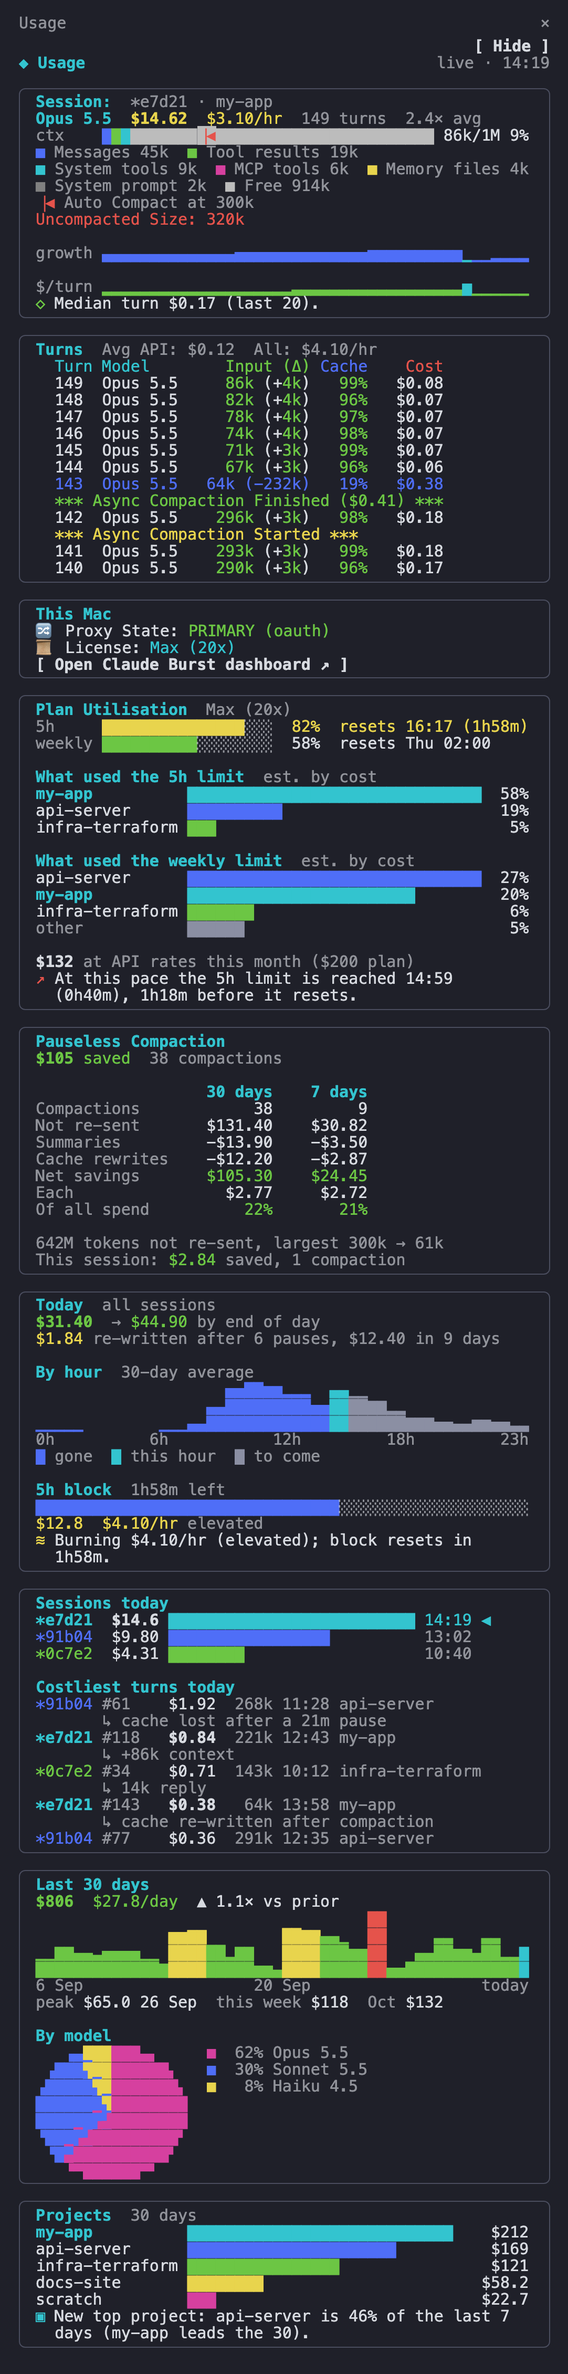
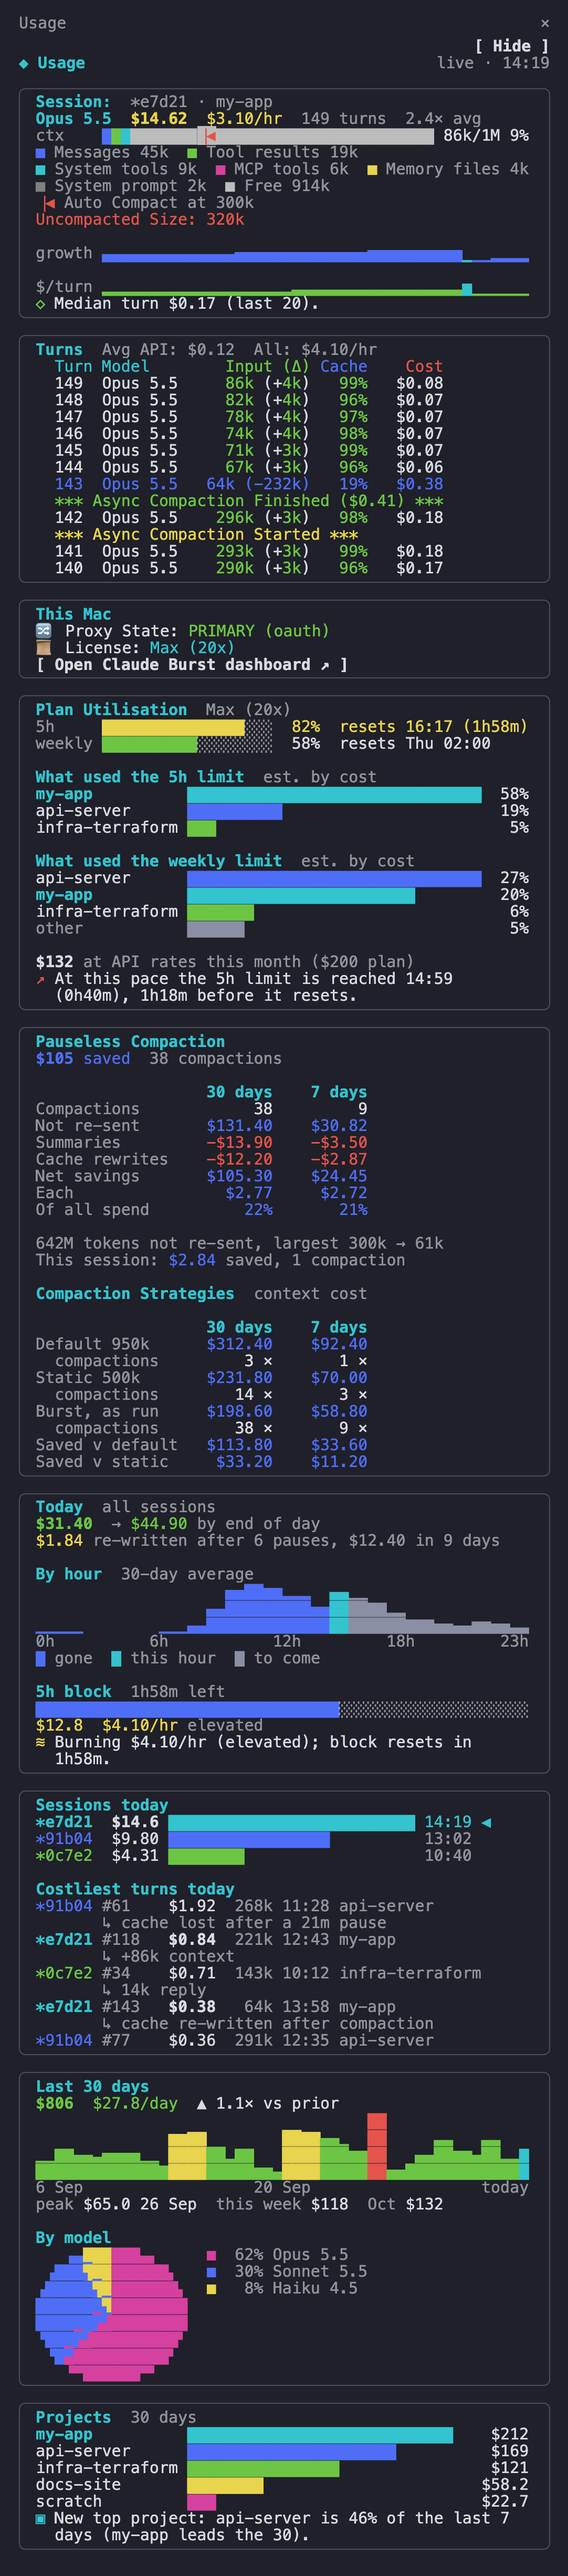
Sidebar: Compaction Strategies sets Claude Code alone, a static limit and Burst as it ran side by side, from Burst's replay, with what Burst saved against each; in the savings tables money gained is blue and money lost red (usage-panel mod 1.15.0)
Claude-Session: https://claude.ai/code/session_01WeFFCejvYqYZRxBmQn1kGn

Changed region(s): [[0.0305, 0.0, 0.976, 0.9978], [0.8235, 0.9354, 0.9455, 0.9978], [0.7625, 0.4054, 0.793, 0.4365]]

diff --git a/mods/usage-panel/hooks/register.js b/mods/usage-panel/hooks/register.js
@@ -481,6 +481,22 @@ async function readExtras($) {
       daily: (Array.isArray(stats.daily) ? stats.daily : []).filter((x) => x && typeof x.date === 'string').map((x) => ({ d: x.date, net: x.net_usd || 0, n: x.compactions || 0, saved: x.saved_usd || 0, summary: x.summary_usd || 0, rewrite: x.rewrite_usd || 0 })),
     }
   }
+  // The same requests replayed three ways: Claude Code alone (compacts at
+  // default_at), a fixed Compact at (fixed_at), and Burst as it ran. Context
+  // cost only: cache reads plus what the compactions cost.
+  const strat = state && state.context && state.context.compaction_strategies
+  const way = (x) => ({ usd: (x && x.usd) || 0, n: (x && x.compactions) || 0 })
+  if (strat && strat.default && strat.fixed && strat.actual && strat.requests > 0) {
+    next.strat = {
+      days: (state.context.window_days > 0 && state.context.window_days) || 7,
+      defaultAt: strat.default_at || 0, fixedAt: strat.fixed_at || 0,
+      def: way(strat.default), fixed: way(strat.fixed), actual: way(strat.actual),
+      daily: (Array.isArray(strat.daily) ? strat.daily : []).filter((x) => x && typeof x.date === 'string').map((x) => {
+        const d = way(x.default), f = way(x.fixed), a = way(x.actual)
+        return { d: x.date, defUsd: d.usd, defN: d.n, fixedUsd: f.usd, fixedN: f.n, actualUsd: a.usd, actualN: a.n }
+      }),
+    }
+  }
   // What the secondary's requests would have cost at the price of the model
   // Claude Code asked for, against what the secondary charged.
   const over = state && state.context && state.context.overflow_stats
@@ -533,7 +549,7 @@ async function readExtras($) {
   const week = await get('/api/usage?range=7d&limit=1&provider=anthropic')
   const found = byRepo(week)
   if (found) next.week = { ...found, repos: ((week.options && week.options.repos) || []).filter((x) => typeof x === 'string') }
-  extra = next.saved || next.secondary || next.warn || next.comp || next.auto || next.over || next.by || next.week ? next : null
+  extra = next.saved || next.secondary || next.warn || next.comp || next.strat || next.auto || next.over || next.by || next.week ? next : null
   return JSON.stringify(extra) !== before
 }
 
@@ -672,9 +688,13 @@ export function panel(Box, Text, d, width, now, feedError, layout, extras = [], 
       return body.length > 0 ? [...body, ...notes('plan')] : []
     },
     savings: () => {
-      const saved = savingsSection(Box, T, IW, extra)
-      const over = overflowSection(Box, T, IW, extra)
-      return saved.length > 0 && over.length > 0 ? [...saved, T(' '), ...over] : [...saved, ...over]
+      const out = []
+      for (const part of [savingsSection(Box, T, IW, extra), strategiesSection(Box, T, IW, extra), overflowSection(Box, T, IW, extra)]) {
+        if (part.length === 0) continue
+        if (out.length > 0) out.push(T(' '))
+        out.push(...part)
+      }
+      return out
     },
     today: () => [...todaySection(Box, T, d, IW, now), ...notes('today')],
     sessions: () => topSection(Box, T, d, IW),
@@ -1098,20 +1118,19 @@ function savingsSection(Box, T, W, extra) {
   if (!c || !(c.n > 0)) return []
   const out = [heading(T, 'Pauseless Compaction')]
   out.push(T([
-    T(money(Math.abs(c.net)), { bold: true, color: c.net >= 0 ? 'green' : 'red' }),
-    T(c.net >= 0 ? ' saved' : ' lost', { color: c.net >= 0 ? 'green' : 'red' }),
+    T(money(Math.abs(c.net)), { bold: true, color: c.net >= 0 ? GAIN : 'red' }),
+    T(c.net >= 0 ? ' saved' : ' lost', { color: c.net >= 0 ? GAIN : 'red' }),
     T('  ' + c.n + (c.n === 1 ? ' compaction' : ' compactions'), { dimColor: true }),
   ], { wrap: 'truncate-end' }))
   const w = lastWeek(c.daily, c.days)
-  const tone = (v) => (v >= 0 ? 'green' : 'red')
   out.push(...figures(Box, T, c.days, !!w, [
     ['Compactions', String(c.n), w && String(w.n)],
     ['Not re-sent', money(c.saved, 2), w && money(w.saved, 2)],
     ['Summaries', money(-c.summary, 2), w && money(-w.summary, 2)],
     ['Cache rewrites', money(-c.rewrite, 2), w && money(-w.rewrite, 2)],
-    ['Net savings', money(c.net, 2), w && money(w.net, 2), tone(c.net), w && tone(w.net)],
+    ['Net savings', money(c.net, 2), w && money(w.net, 2)],
     ['Each', c.n > 0 ? money(c.net / c.n, 2) : '', w && w.n > 0 ? money(w.net / w.n, 2) : ''],
-    ['Of all spend', ofSpend(c.net, extra.spent), w ? ofSpend(w.net, extra.spent7) : '', tone(c.net), w && tone(w.net)],
+    ['Of all spend', ofSpend(c.net, extra.spent), w ? ofSpend(w.net, extra.spent7) : ''],
   ]))
   out.push(T(' '))
   if (c.tokens > 0) {
@@ -1126,7 +1145,7 @@ function savingsSection(Box, T, W, extra) {
     const one = mine.n === 1
     out.push(T([
       T('This session: ', { dimColor: true }),
-      T(money(Math.abs(mine.net), 2), { color: mine.net >= 0 ? 'green' : 'yellow' }),
+      T(money(Math.abs(mine.net), 2), { color: mine.net >= 0 ? GAIN : 'yellow' }),
       T((mine.net >= 0 ? ' saved' : ' lost so far') + ', ' + mine.n + (one ? ' compaction' : ' compactions'), { dimColor: true }),
     ], { wrap: 'wrap' }))
   }
@@ -1153,18 +1172,49 @@ function ofSpend(net, spent) {
   return (Math.abs(p) < 10 ? p.toFixed(1) : Math.round(p)) + '%'
 }
 
+// The colour of money gained in the savings tables; money lost is red.
+const GAIN = 'blue'
+
 // A card's figures as a table: a column for Burst's window and, where that
 // is longer than a week, one for the last 7 days. Each row is [label,
-// window, week, colour of the window's figure, colour of the week's].
+// window, week]. Money and shares are coloured by their sign: red below
+// nothing, blue otherwise. A plain count has no colour.
 function figures(Box, T, days, two, rows) {
   const cw = 10
   const lw = 15
-  const cell = (v, o) => T(lpad(v == null ? '' : v, cw), o)
+  const tone = (v) => (typeof v !== 'string' || !/[$%]/.test(v) ? undefined : v.startsWith('-') ? 'red' : GAIN)
+  const cell = (v, o) => T(lpad(v == null ? '' : v, cw), o || { color: tone(v) })
   const out = [Box({ flexDirection: 'row', marginTop: 1, children: [T(pad('', lw)), cell(days + ' days', { bold: true, color: ACCENT }), two ? cell(WEEK + ' days', { bold: true, color: ACCENT }) : ''] })]
-  for (const [label, a, b, ca, cb] of rows) {
+  for (const [label, a, b] of rows) {
     if (!a && !b) continue
-    out.push(Box({ flexDirection: 'row', children: [T(pad(label, lw), { dimColor: true }), cell(a, { color: ca }), two ? cell(b, { color: cb }) : ''] }))
+    out.push(Box({ flexDirection: 'row', children: [T(pad(label, lw), { dimColor: true }), cell(a), two ? cell(b) : ''] }))
   }
+  return out
+}
+
+// ---- compaction strategies: three ways to compact, on the same requests
+
+// Burst replays the window's requests as Claude Code alone would have sent
+// them (it compacts near the window's end), as a fixed Compact at would
+// have, and counts what it really sent. Context cost only: output and new
+// input are the same three ways.
+function strategiesSection(Box, T, W, extra) {
+  const s = extra && extra.strat
+  if (!s || !(s.def.usd > 0)) return []
+  const out = [heading(T, 'Compaction Strategies', 'context cost')]
+  const w = lastWeek(s.daily, s.days)
+  const at = (label, n) => (n > 0 ? label + ' ' + k(n) : label)
+  const count = (n) => String(n) + ' ×'
+  out.push(...figures(Box, T, s.days, !!w, [
+    [at('Default', s.defaultAt), money(s.def.usd, 2), w && money(w.defUsd, 2)],
+    ['  compactions', count(s.def.n), w && count(w.defN)],
+    [at('Static', s.fixedAt), money(s.fixed.usd, 2), w && money(w.fixedUsd, 2)],
+    ['  compactions', count(s.fixed.n), w && count(w.fixedN)],
+    ['Burst, as run', money(s.actual.usd, 2), w && money(w.actualUsd, 2)],
+    ['  compactions', count(s.actual.n), w && count(w.actualN)],
+    ['Saved v default', money(s.def.usd - s.actual.usd, 2), w && money(w.defUsd - w.actualUsd, 2)],
+    ['Saved v static', money(s.fixed.usd - s.actual.usd, 2), w && money(w.fixedUsd - w.actualUsd, 2)],
+  ]))
   return out
 }
 
@@ -1179,18 +1229,17 @@ function overflowSection(Box, T, W, extra) {
   const good = o.saved >= 0
   const out = [heading(T, 'Overflow to Secondary')]
   out.push(T([
-    T(money(Math.abs(o.saved)), { bold: true, color: good ? 'green' : 'red' }),
-    T(good ? ' saved' : ' lost', { color: good ? 'green' : 'red' }),
+    T(money(Math.abs(o.saved)), { bold: true, color: good ? GAIN : 'red' }),
+    T(good ? ' saved' : ' lost', { color: good ? GAIN : 'red' }),
     T('  ' + o.n + (o.n === 1 ? ' request' : ' requests'), { dimColor: true }),
   ], { wrap: 'truncate-end' }))
   const w = lastWeek(o.daily, o.days)
-  const tone = (v) => (v >= 0 ? 'green' : 'red')
   out.push(...figures(Box, T, o.days, !!w, [
     ['Requests', String(o.n), w && String(w.n)],
     ['Anthropic price', money(o.list, 2), w && money(w.list, 2)],
     ['Secondary paid', money(-o.paid, 2), w && money(-w.paid, 2)],
-    ['Net savings', money(o.saved, 2), w && money(w.net, 2), tone(o.saved), w && tone(w.net)],
-    ['Of all spend', ofSpend(o.saved, extra.spent), w ? ofSpend(w.net, extra.spent7) : '', tone(o.saved), w && tone(w.net)],
+    ['Net savings', money(o.saved, 2), w && money(w.net, 2)],
+    ['Of all spend', ofSpend(o.saved, extra.spent), w ? ofSpend(w.net, extra.spent7) : ''],
   ]))
   if (o.priced < o.n) out.push(T((o.n - o.priced) + (o.n - o.priced === 1 ? ' request has' : ' requests have') + ' no price and ' + (o.n - o.priced === 1 ? 'is' : 'are') + ' left out', { dimColor: true, wrap: 'truncate-end' }))
   return out

diff --git a/mods/usage-panel/tests/usage-panel.test.ts b/mods/usage-panel/tests/usage-panel.test.ts
@@ -588,7 +588,7 @@ test('Pauseless Compaction shows what Burst\'s compaction saved, what it cost, a
   const drawn = JSON.stringify(await ui.drawn())
   expect(await ui.find({ type: 'Text', text: 'Pauseless Compaction' })).toBeDefined()
   expect(drawn).not.toContain('last 7 days')
-  expect(drawn).toContain('{"bold":true,"color":"green"},"children":["$276"]')
+  expect(drawn).toContain('{"bold":true,"color":"blue"},"children":["$276"]')
   expect(drawn).toContain('"  45 compactions"')
   expect(drawn).toContain('"   $298.47"')
   expect(drawn).toContain('"   -$12.59"')
@@ -628,7 +628,7 @@ test('Overflow to Secondary shows what the secondary saved against the price of 
   const ui = await $.ui.mount(PANE)
   const drawn = JSON.stringify(await ui.drawn())
   const card = drawn.slice(drawn.indexOf('"Overflow to Secondary"'), drawn.indexOf('"Today"'))
-  expect(card).toContain('{"bold":true,"color":"green"},"children":["$42.0"]')
+  expect(card).toContain('{"bold":true,"color":"blue"},"children":["$42.0"]')
   expect(card).toContain('"  12 requests"')
   expect(card).toContain('"    $48.20"')
   expect(card).toContain('"    -$6.15"')
@@ -703,6 +703,33 @@ test('over a 30-day window the savings tables have a column for the 30 days and 
   expect(over).toContain('"    $15.00"')
   expect(over).toContain('"    $10.50"')
   expect(over).toContain('"        21"')
+})
+
+test('Compaction Strategies sets Claude Code alone, a static limit and Burst as it ran side by side, and what Burst saved against each', async ($, on) => {
+  stubs(on, [doc({ burst: BURST })])
+  const dates = ['2026-09-26', '2026-09-27', '2026-09-28', '2026-09-29', '2026-09-30', '2026-10-01', '2026-10-02', '2026-10-03', '2026-10-04', '2026-10-05']
+  const way = (usd: number, compactions: number) => ({ usd, compactions })
+  // A day: $10 alone, $7 with a static limit, $8 as Burst ran (dearer than static).
+  const daily = dates.map((date) => ({ date, requests: 50, default: way(10, 0), fixed: way(7, 1), actual: way(8, 2) }))
+  const compaction_strategies = { fixed_at: 500_000, default_at: 950_000, requests: 500, default: way(927.25, 5), fixed: way(672.27, 34), actual: way(584.52, 79), daily, repos: [] }
+  dashboard(on, { state: { context: { window_days: 30, compaction_strategies } } })
+  await start($)
+  const ui = await $.ui.mount(PANE)
+  const drawn = JSON.stringify(await ui.drawn())
+  const card = drawn.slice(drawn.indexOf('"Compaction Strategies"'), drawn.indexOf('"Today"'))
+  expect(card).toContain('"  context cost"')
+  expect(card).toContain('"Default 950k   "')
+  expect(card).toContain('"Static 500k    "')
+  expect(card).toContain('"   $927.25"')
+  expect(card).toContain('"      79 ×"')
+  // 927.25 - 584.52 and 672.27 - 584.52 over the window: money gained is blue.
+  expect((await ui.find({ type: 'Text', text: '   $342.73' })).props.color).toBe('blue')
+  expect((await ui.find({ type: 'Text', text: '    $87.75' })).props.color).toBe('blue')
+  // The last seven days: $70 alone, $49 static, $56 as run. Burst lost $7 against static: red.
+  expect((await ui.find({ type: 'Text', text: '    $14.00' })).props.color).toBe('blue')
+  expect((await ui.find({ type: 'Text', text: '    -$7.00' })).props.color).toBe('red')
+  // A count has no colour.
+  expect((await ui.find({ type: 'Text', text: '      79 ×' })).props.color).toBeUndefined()
 })
 
 test('without Burst, or before Burst has compacted anything, there is no Pauseless Compaction card', async ($, on) => {

diff --git a/README.md b/README.md
@@ -210,18 +210,29 @@ A table, not a chart: one column for Burst's window and, where that is longer th
 | On screen | What it is |
 |---|---|
 | `30 days`, `7 days` | The column headings: the window Burst keeps these figures over, and the last 7 days of it. |
-| `$105 saved` | The net saving over the window: green when compaction has paid for itself, red (`lost`) when it has not yet. |
+| `$105 saved` | The net saving over the window: blue when compaction has paid for itself, red (`lost`) when it has not yet. |
+| Blue and red figures | In these tables money gained is blue and money lost is red, with its minus. Counts have no colour. |
 | `Compactions` | How many times Burst compacted. |
 | `Not re-sent` | What the turns after each compaction would have cost with the full history still in the context. |
 | `Summaries` | What the background calls that wrote the summaries cost. |
 | `Cache rewrites` | Each compaction changes the context, so the next turn writes it to the cache once at the higher rate. |
-| `Net savings` | Not re-sent, less the other two. Green, or red with a minus when it is a loss. |
+| `Net savings` | Not re-sent, less the other two. Red with a minus when it is a loss. |
 | `Each` | Net savings per compaction. |
 | `Of all spend` | Net savings as a share of everything spent over the same days, every provider, at API rates (from Burst's log). |
 | `642M tokens not re-sent, largest 300k → 61k` | The same saving in tokens, and the biggest single compaction: the context before and after. In a narrow sidebar the largest has a row of its own. |
 | `This session: $2.84 saved, 1 compaction` | This session's own share. `$0.40 lost so far` in yellow means its compaction has not paid for itself yet; it does over the next few turns. |
 
-**Overflow to Secondary**, under it when requests have gone to the secondary, is the same table: requests, what they would have cost at Anthropic's price, what the secondary charged, net savings and its share of all spend.
+**Compaction Strategies**, under it, answers what the choice of limit was worth. Burst replays the same requests three ways and prices each. It is the context cost only (cache reads plus what the compactions cost): output and new input are the same all three ways.
+
+| On screen | What it is |
+|---|---|
+| `Default 950k` | Claude Code alone: no Burst, so it compacts only near the end of the model's window. |
+| `Static 500k` | A fixed Compact at, the one set on Burst's dashboard. The label carries its real value. |
+| `Burst, as run` | What Burst really sent, with whatever mode was on each day (Intelligent Compaction Mode included). |
+| `compactions` | Under each, how many compactions that way makes. |
+| `Saved v default`, `Saved v static` | The first two, each less `Burst, as run`. Red with a minus where Burst cost more. |
+
+**Overflow to Secondary**, under that when requests have gone to the secondary, is the same table: requests, what they would have cost at Anthropic's price, what the secondary charged, net savings and its share of all spend.
 
 ### Today
 
